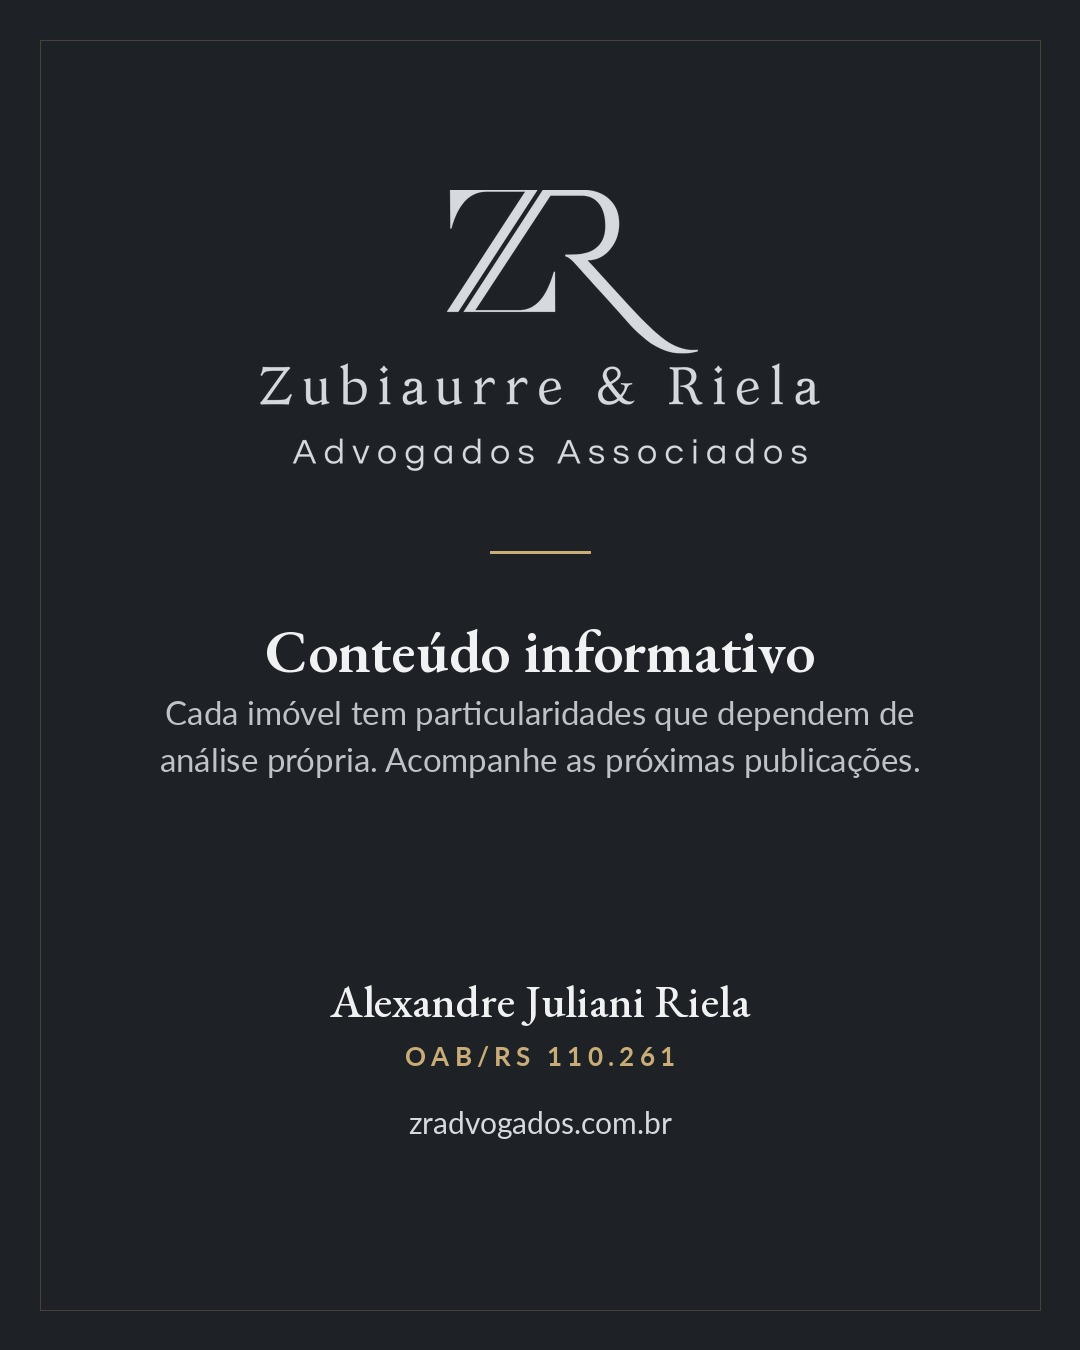
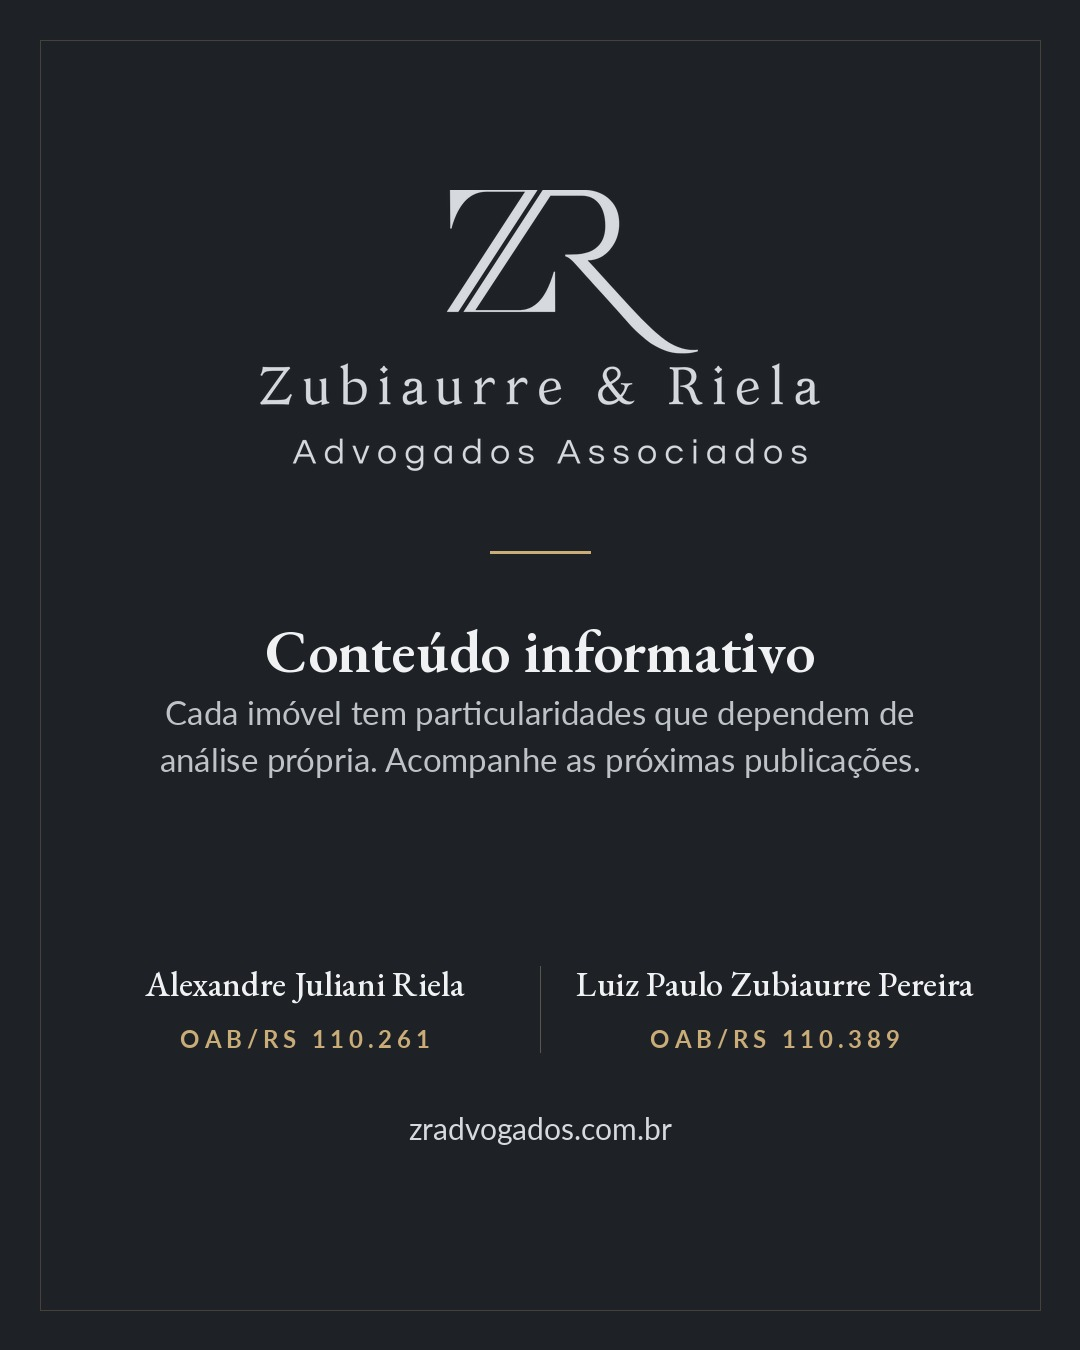
Slide final com os dois sócios (Luiz Paulo Zubiaurre Pereira, OAB/RS 110.389)
Claude-Session: https://claude.ai/code/session_01HoeYzxJcxRSzdn7GHCybpk

Changed region(s): [[0.1222, 0.7156, 0.8861, 0.8711]]

diff --git a/sistema/render.py b/sistema/render.py
@@ -10,7 +10,7 @@ creme, verde e com cara de campo):
 - títulos em serifa clássica (EB Garamond), grafite; destaque em dourado discreto itálico;
 - texto corrido em Lato, cinza-grafite; numeração dos slides em algarismos romanos dourados;
 - sem selo, sem botão, sem chamada de venda: o slide final é uma assinatura, como um cartão
-  (nome do escritório, advogado, OAB e site), exigência do art. 44 do Código de Ética da OAB.
+  (nome do escritório, os dois sócios com OAB e site), exigência do art. 44 do Código de Ética da OAB.
 """
 import os, re, sys, json
 from PIL import Image, ImageDraw, ImageFont
@@ -40,6 +40,8 @@ PRATA = (214, 217, 221)
 ESCRITORIO = "Zubiaurre & Riela Advogados Associados"
 ADVOGADO = "Alexandre Juliani Riela"
 OAB = "OAB/RS 110.261"
+# Sócios que assinam o slide final (nome, OAB)
+SOCIOS = [("Alexandre Juliani Riela", "OAB/RS 110.261"), ("Luiz Paulo Zubiaurre Pereira", "OAB/RS 110.389")]
 SITE = "zradvogados.com.br"
 M = 80  # margem lateral
 
@@ -232,14 +234,22 @@ def slide_assinatura(s, n, total):
         y += 10
     if s.get("texto"):
         y = bloco(d, 0, y + 10, s["texto"], font(SANS_R, 33), (190, 195, 200), 800, 1.45, centro=True)
-    y = max(y + 70, H - 380)
-    fn = font(SERIF_SB, 46)
-    d.text(((W - d.textlength(ADVOGADO, font=fn)) / 2, y), ADVOGADO, font=fn, fill=(240, 241, 243))
-    fo = font(SANS_B, 26)
-    larg = sum(d.textlength(c, font=fo) + fo.size * 0.2 for c in OAB) - fo.size * 0.2
-    espacado(d, (W - larg) / 2, y + 70, OAB, fo, OURO_CLARO, 0.2)
+    y = max(y + 70, H - 390)
+    # os dois sócios lado a lado, com filete vertical entre eles
+    fo = font(SANS_B, 24)
+    tam = 40
+    while max(d.textlength(nome, font=font(SERIF_SB, tam)) for nome, _ in SOCIOS) > 400:
+        tam -= 1
+    fn = font(SERIF_SB, tam)
+    centros = [W / 2 - 235, W / 2 + 235] if len(SOCIOS) == 2 else [W / 2]
+    for (nome, oab), cx in zip(SOCIOS, centros):
+        d.text((cx - d.textlength(nome, font=fn) / 2, y), nome, font=fn, fill=(240, 241, 243))
+        larg = sum(d.textlength(c, font=fo) + fo.size * 0.2 for c in oab) - fo.size * 0.2
+        espacado(d, cx - larg / 2, y + 64, oab, fo, OURO_CLARO, 0.2)
+    if len(SOCIOS) == 2:
+        d.rectangle([W / 2, y + 6, W / 2, y + 92], fill=(90, 86, 78))
     fs = font(SANS_R, 30)
-    d.text(((W - d.textlength(SITE, font=fs)) / 2, y + 134), SITE, font=fs, fill=PRATA)
+    d.text(((W - d.textlength(SITE, font=fs)) / 2, y + 150), SITE, font=fs, fill=PRATA)
     return im
 
 

diff --git a/INSTRUCOES.md b/INSTRUCOES.md
@@ -26,7 +26,7 @@ A publicidade tem que ser sóbria, discreta e informativa, sem captação de cli
 Na prática, 5 regras do conteúdo:
 
 1. **O post ensina, não vende.** Explica a regra e para aí. Nada de "a gente resolve", "conte com a gente", "procure um advogado especialista".
-2. **Fechamento neutro.** O último slide é uma assinatura (escritório, advogado, OAB e site), como um cartão.
+2. **Fechamento neutro.** O último slide é uma assinatura (escritório, os dois sócios com OAB e site), como um cartão.
    Explicar o tema e terminar oferecendo o serviço é tratado por parte da OAB como captação disfarçada.
    Frases permitidas para fechar: "Conteúdo de caráter informativo.", "Acompanhe as próximas publicações."
 3. **Sem medo vendido.** Urgência só quando é fato (um prazo que vence, uma lei que entrou em vigor), dita com sobriedade.
@@ -102,7 +102,8 @@ PRUMO é escuro, sem serifa, "de sistema", com selo em pílula; Santa Rute é cr
 - Rótulo do tema: traço dourado + caixa-alta espaçada cinza (sem selo, sem pílula).
 - Rodapé: filete, site à esquerda, número do slide à direita.
 - Slide final (`assinatura`): fundo grafite liso com moldura fina, logo completa em prata, título curto neutro,
-  nome do advogado, OAB e site. **Sem botão e sem chamada para contato.**
+  os dois sócios lado a lado com a OAB de cada um (Alexandre Juliani Riela, OAB/RS 110.261; Luiz Paulo Zubiaurre
+  Pereira, OAB/RS 110.389) e o site. **Sem botão e sem chamada para contato.**
 - Sem foto de banco de imagem, sem fundo degradê, sem emoji nas artes.
 
 A logo fica em `sistema/logo-mascara.png` (completa) e `sistema/monograma-mascara.png` (só o ZR), tiradas do papel
